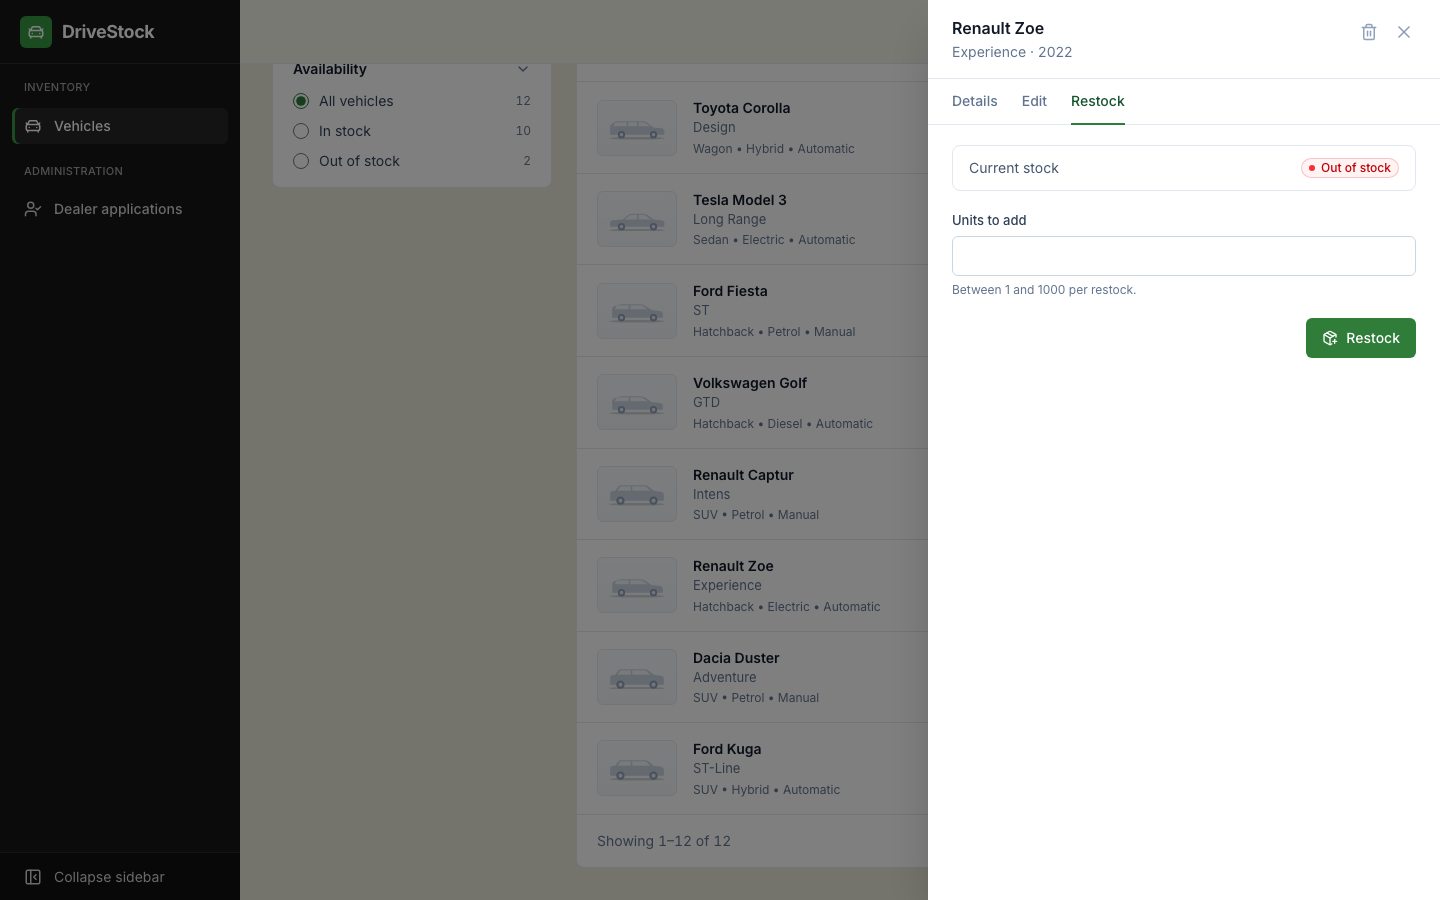
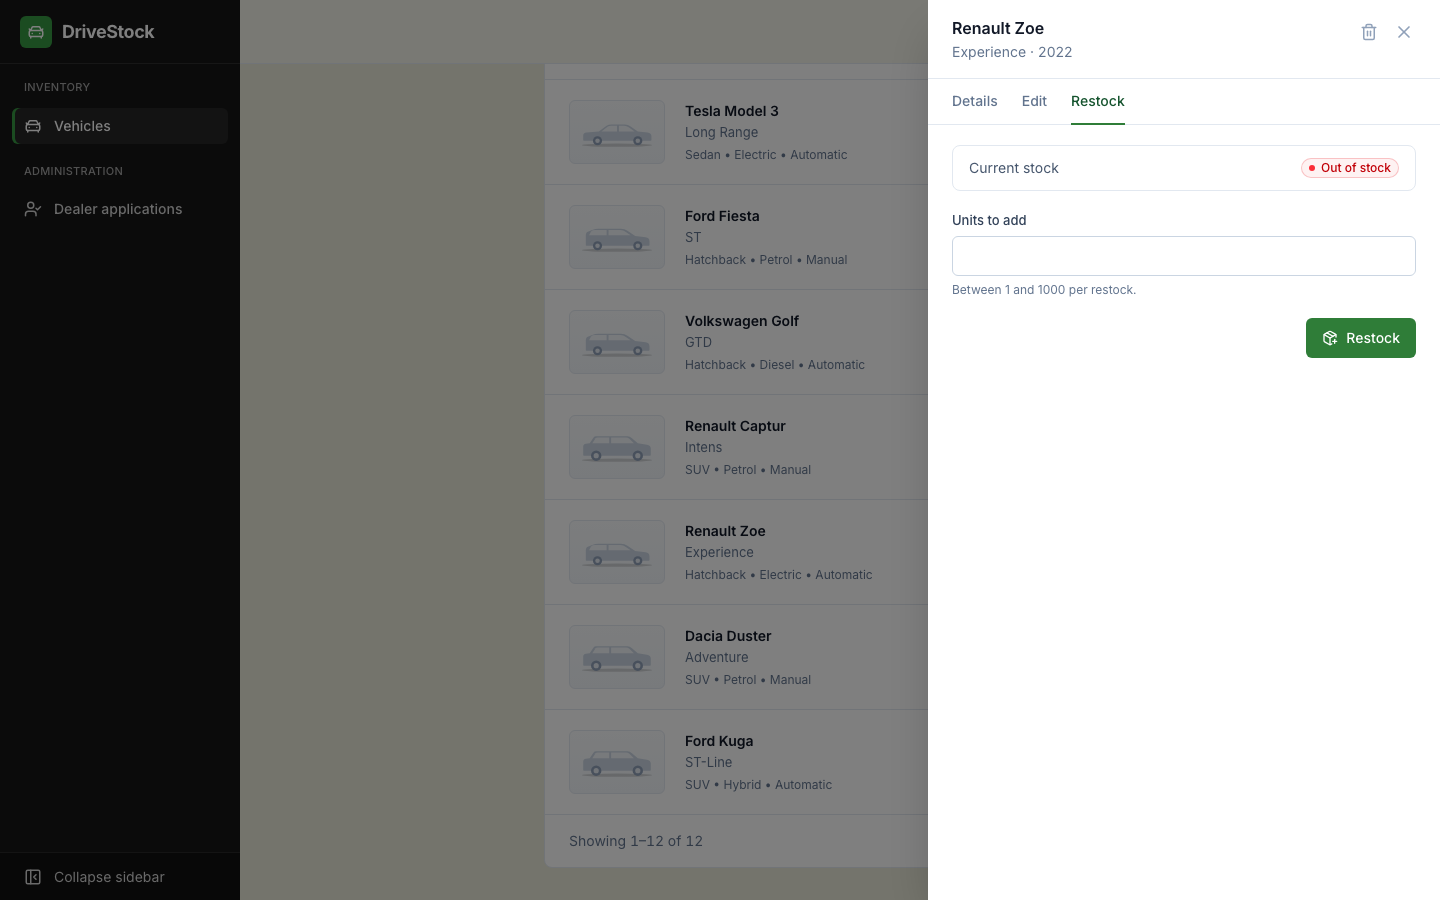
feat(web): line up inventory columns with a subgrid; labelled delete in Edit
The header and every row are now subgrids of one table grid, so Year,
Availability and Price stay under their headings and prices never wrap.
The Edit tab gets a "Delete vehicle" section with a labelled button next
to the drawer's trash icon. The API mock lets dealers manage inventory
like the real API, and README screenshots are regenerated.

diff --git a/frontend/src/test/handlers.ts b/frontend/src/test/handlers.ts
@@ -132,6 +132,11 @@ function currentUser(request: Request): StoredUser | undefined {
   return users.find((u) => tokenFor(u) === token)
 }
 
+/** Mirrors the API: dealers and admins may change the inventory. */
+function canManageInventory(user: StoredUser | undefined) {
+  return user?.role === 'dealer' || user?.role === 'admin'
+}
+
 function publicUser({ password: _password, ...user }: StoredUser): User {
   return user
 }
@@ -262,14 +267,14 @@ export const handlers = [
   http.post(`${API}/vehicles`, async ({ request }) => {
     const user = currentUser(request)
     if (!user) return error(401, 'NOT_AUTHENTICATED', 'Authentication required')
-    if (user.role !== 'admin') return error(403, 'FORBIDDEN', 'Admin privileges required')
+    if (!canManageInventory(user)) return error(403, 'FORBIDDEN', 'Dealer or admin privileges required')
     const body = (await request.json()) as VehicleCreate
     return HttpResponse.json(seedVehicle({ ...body, price: Number(body.price).toFixed(2) }), { status: 201 })
   }),
 
   http.put(`${API}/vehicles/:id`, async ({ request, params }) => {
     const user = currentUser(request)
-    if (user?.role !== 'admin') return error(403, 'FORBIDDEN', 'Admin privileges required')
+    if (!canManageInventory(user)) return error(403, 'FORBIDDEN', 'Dealer or admin privileges required')
     const vehicle = getVehicle(Number(params.id))
     if (!vehicle) return error(404, 'VEHICLE_NOT_FOUND', 'Vehicle not found')
     Object.assign(vehicle, (await request.json()) as Partial<Vehicle>)
@@ -279,7 +284,7 @@ export const handlers = [
 
   http.delete(`${API}/vehicles/:id`, ({ request, params }) => {
     const user = currentUser(request)
-    if (user?.role !== 'admin') return error(403, 'FORBIDDEN', 'Admin privileges required')
+    if (!canManageInventory(user)) return error(403, 'FORBIDDEN', 'Dealer or admin privileges required')
     const before = vehicles.length
     vehicles = vehicles.filter((v) => v.id !== Number(params.id))
     return before === vehicles.length
@@ -316,7 +321,7 @@ export const handlers = [
   http.post(`${API}/vehicles/:id/photos`, async ({ request, params }) => {
     const user = currentUser(request)
     if (!user) return error(401, 'NOT_AUTHENTICATED', 'Authentication required')
-    if (user.role !== 'admin') return error(403, 'FORBIDDEN', 'Admin privileges required')
+    if (!canManageInventory(user)) return error(403, 'FORBIDDEN', 'Dealer or admin privileges required')
     const vehicle = getVehicle(Number(params.id))
     if (!vehicle) return error(404, 'VEHICLE_NOT_FOUND', 'Vehicle not found')
     const files = await uploadedFiles(request)
@@ -335,7 +340,7 @@ export const handlers = [
 
   http.delete(`${API}/vehicles/:id/photos/:photoId`, ({ request, params }) => {
     const user = currentUser(request)
-    if (user?.role !== 'admin') return error(403, 'FORBIDDEN', 'Admin privileges required')
+    if (!canManageInventory(user)) return error(403, 'FORBIDDEN', 'Dealer or admin privileges required')
     const vehicle = getVehicle(Number(params.id))
     const photo = vehicle?.photos.find((p) => p.id === Number(params.photoId))
     if (!vehicle || !photo) return error(404, 'PHOTO_NOT_FOUND', 'Photo not found')
@@ -345,7 +350,7 @@ export const handlers = [
 
   http.post(`${API}/vehicles/:id/restock`, async ({ request, params }) => {
     const user = currentUser(request)
-    if (user?.role !== 'admin') return error(403, 'FORBIDDEN', 'Admin privileges required')
+    if (!canManageInventory(user)) return error(403, 'FORBIDDEN', 'Dealer or admin privileges required')
     const vehicle = getVehicle(Number(params.id))
     if (!vehicle) return error(404, 'VEHICLE_NOT_FOUND', 'Vehicle not found')
     vehicle.quantity += ((await request.json()) as { quantity: number }).quantity

diff --git a/frontend/src/features/inventory/InventoryPage.tsx b/frontend/src/features/inventory/InventoryPage.tsx
@@ -26,7 +26,7 @@ import {
 } from './queries'
 import { PAGE_SIZE, useInventoryFilters, useTextDrafts } from './useInventoryFilters'
 import { VehicleDetails } from './VehicleDetails'
-import { ROW_GRID, VehicleRow } from './VehicleRow'
+import { ROW_GRID, TABLE_GRID, VehicleRow } from './VehicleRow'
 
 const SORT_OPTIONS: { value: SortOrder; label: string }[] = [
   { value: 'newest', label: 'Newest first' },
@@ -133,6 +133,20 @@ function VehicleDrawer({ id, notice, onClose }: { id: number; notice?: string; o
               onSubmit={(fields) => update.mutateAsync(fields)}
             />
             <PhotoManager vehicle={vehicle} />
+            <section className="flex flex-wrap items-center justify-between gap-3 border-t border-slate-200 px-6 py-5">
+              <div>
+                <h3 className="text-sm font-semibold text-slate-900">Delete vehicle</h3>
+                <p className="mt-1 text-sm text-slate-500">Removes it from inventory. Past purchase records are kept.</p>
+              </div>
+              <Button
+                variant="danger"
+                size="sm"
+                icon={<Trash2 aria-hidden className="size-3.5" />}
+                onClick={() => setConfirmingDelete(true)}
+              >
+                Delete this vehicle
+              </Button>
+            </section>
           </>
         )}
         {tab === 'restock' && <RestockForm key={vehicle.id} vehicle={vehicle} />}
@@ -285,17 +299,6 @@ export function InventoryPage() {
             </div>
           </div>
 
-          <div
-            aria-hidden
-            className={`hidden border-b border-slate-200 bg-slate-50/60 px-6 py-3 text-xs font-medium text-slate-500 ${ROW_GRID}`}
-          >
-            <span>Vehicle</span>
-            <span>Year</span>
-            <span>Availability</span>
-            <span className="text-right">Price</span>
-            <span className="w-[118px]" />
-          </div>
-
           {isPending ? (
             <div role="status" className="flex items-center justify-center gap-2 py-16 text-sm text-slate-500">
               <Spinner /> Loading vehicles…
@@ -310,11 +313,23 @@ export function InventoryPage() {
           ) : data.items.length === 0 ? (
             <EmptyState filtered={activeCount > 0} onClear={clearAll} />
           ) : (
-            <ul aria-label="Vehicles" className="divide-y divide-slate-200">
-              {data.items.map((vehicle) => (
-                <VehicleRow key={vehicle.id} vehicle={vehicle} onView={() => select(vehicle.id)} />
-              ))}
-            </ul>
+            <div className={TABLE_GRID}>
+              <div
+                aria-hidden
+                className={`hidden border-b border-slate-200 bg-slate-50/60 px-6 py-3 text-xs font-medium text-slate-500 ${ROW_GRID}`}
+              >
+                <span>Vehicle</span>
+                <span>Year</span>
+                <span>Availability</span>
+                <span className="text-right">Price</span>
+                <span />
+              </div>
+              <ul aria-label="Vehicles" className={`divide-y divide-slate-200 ${ROW_GRID}`}>
+                {data.items.map((vehicle) => (
+                  <VehicleRow key={vehicle.id} vehicle={vehicle} onView={() => select(vehicle.id)} />
+                ))}
+              </ul>
+            </div>
           )}
 
           {total > 0 && (

diff --git a/frontend/src/features/dealers/dealers.test.tsx b/frontend/src/features/dealers/dealers.test.tsx
@@ -1,6 +1,6 @@
 import { act, screen, waitFor, within } from '@testing-library/react'
 import { describe, expect, it } from 'vitest'
-import { approveElsewhere, getApplication, PASSWORD, seedApplication, seedUser, seedVehicle } from '../../test/handlers'
+import { approveElsewhere, getApplication, getVehicle, PASSWORD, seedApplication, seedUser, seedVehicle } from '../../test/handlers'
 import { renderApp } from '../../test/utils'
 
 describe('dealer sign-in entry point', () => {
@@ -157,6 +157,22 @@ describe('admin review of dealer applications', () => {
     expect(within(drawer).getByRole('tab', { name: /edit/i })).toBeInTheDocument()
     expect(within(drawer).getByRole('tab', { name: /restock/i })).toBeInTheDocument()
     expect(within(drawer).getByRole('button', { name: /delete vehicle/i })).toBeInTheDocument()
+  })
+
+  it('lets a dealer delete a vehicle with the labelled button in the Edit tab', async () => {
+    const vehicle = seedVehicle({ make: 'Ford', model: 'Kuga' })
+    const { user } = renderApp({ path: '/app', user: seedUser('dealer') })
+
+    await user.click(await screen.findByRole('button', { name: /view details/i }))
+    const drawer = await screen.findByRole('dialog', { name: /ford kuga/i })
+    await user.click(within(drawer).getByRole('tab', { name: /edit/i }))
+    await user.click(within(drawer).getByRole('button', { name: 'Delete this vehicle' }))
+    const confirm = await screen.findByRole('alertdialog', { name: /delete ford kuga/i })
+    await user.click(within(confirm).getByRole('button', { name: /^delete$/i }))
+
+    await waitFor(() => expect(getVehicle(vehicle.id)).toBeUndefined())
+    await waitFor(() => expect(screen.queryByRole('dialog', { name: /ford kuga/i })).not.toBeInTheDocument())
+    expect(await screen.findByText(/no vehicles in inventory yet/i)).toBeInTheDocument()
   })
 
   it('hides the page and navigation item from customers', async () => {

diff --git a/frontend/src/features/inventory/VehicleRow.tsx b/frontend/src/features/inventory/VehicleRow.tsx
@@ -8,8 +8,16 @@ import { VehicleThumb } from './VehicleThumb'
 
 // Rows follow the width of the list (an @container), not the window, because the sidebar and
 // filter column change how much room it has: stacked card when narrow, one-line card from @2xl,
-// table columns (matching the header row) from 52rem (832px).
-export const ROW_GRID = '@[52rem]:grid @[52rem]:grid-cols-[minmax(0,1fr)_56px_128px_104px_auto] @[52rem]:items-center @[52rem]:gap-5'
+// a table from 52rem (832px).
+//
+// In table mode the list is one CSS grid (TABLE_GRID) and the header and every row are subgrids
+// of it (ROW_GRID), so all columns line up. Vehicle gets room first (up to 22rem, so Year stays
+// close to it on wide screens); Year, Availability and Price are at least as wide as their widest
+// value (the longest price always fits) and share the rest; the button column fits the button.
+export const TABLE_GRID =
+  '@[52rem]:grid @[52rem]:grid-cols-[minmax(14rem,22rem)_minmax(max-content,1fr)_minmax(max-content,1fr)_minmax(max-content,1fr)_max-content]'
+export const ROW_GRID =
+  '@[52rem]:col-span-full @[52rem]:grid @[52rem]:grid-cols-subgrid @[52rem]:items-center @[52rem]:gap-x-5'
 
 export function VehicleRow({ vehicle, onView, actions }: { vehicle: Vehicle; onView: () => void; actions?: ReactNode }) {
   return (
@@ -35,7 +43,7 @@ export function VehicleRow({ vehicle, onView, actions }: { vehicle: Vehicle; onV
         <div>
           <StockBadge quantity={vehicle.quantity} />
         </div>
-        <p className="text-sm font-semibold text-slate-900 tabular-nums @2xl:min-w-24 @2xl:text-right">{formatPrice(vehicle.price)}</p>
+        <p className="text-sm font-semibold text-slate-900 whitespace-nowrap tabular-nums @2xl:min-w-24 @2xl:text-right">{formatPrice(vehicle.price)}</p>
       </div>
       <div className="flex items-center justify-end gap-2 @2xl:shrink-0">
         {actions}

diff --git a/backend/tests/test_dealer_role.py b/backend/tests/test_dealer_role.py
@@ -4,7 +4,7 @@ import pytest
 from sqlalchemy import func, select
 
 from app.db import get_sessionmaker
-from app.models import DealerApplication
+from app.models import DealerApplication, Role, User
 from tests.conftest import VEHICLE
 from tests.test_vehicle_photos import files, image_bytes
 
@@ -35,6 +35,13 @@ class TestDealerRegistration:
         assert body["email"] == "dana@motors.example"
         assert body["full_name"] == "Dana Dealer"
         assert body["role"] == "dealer"
+
+    def test_the_dealer_role_is_what_the_database_stores(self, client):
+        register_dealer(client)
+
+        with get_sessionmaker()() as session:
+            role = session.scalar(select(User.role).where(User.email == "dana@motors.example"))
+        assert role is Role.DEALER
 
     def test_the_dealer_role_is_stored_and_returned_on_sign_in(self, client, dealer_headers):
         login = client.post(
